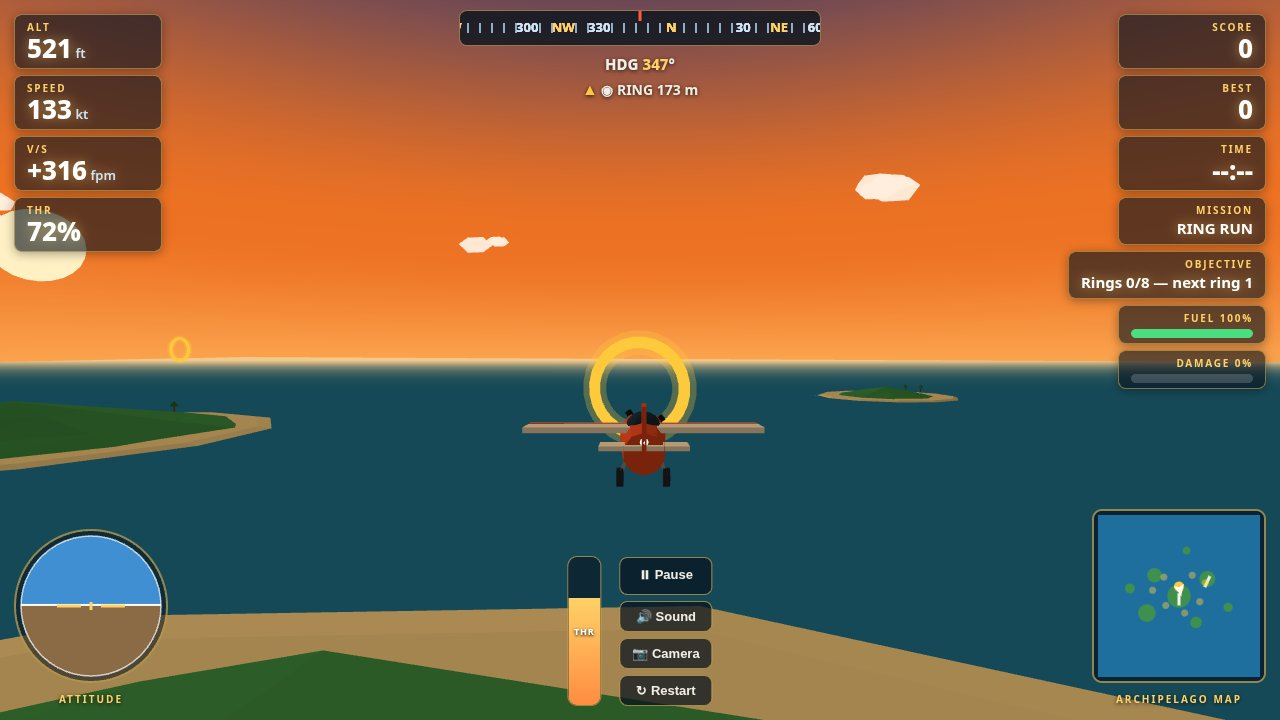
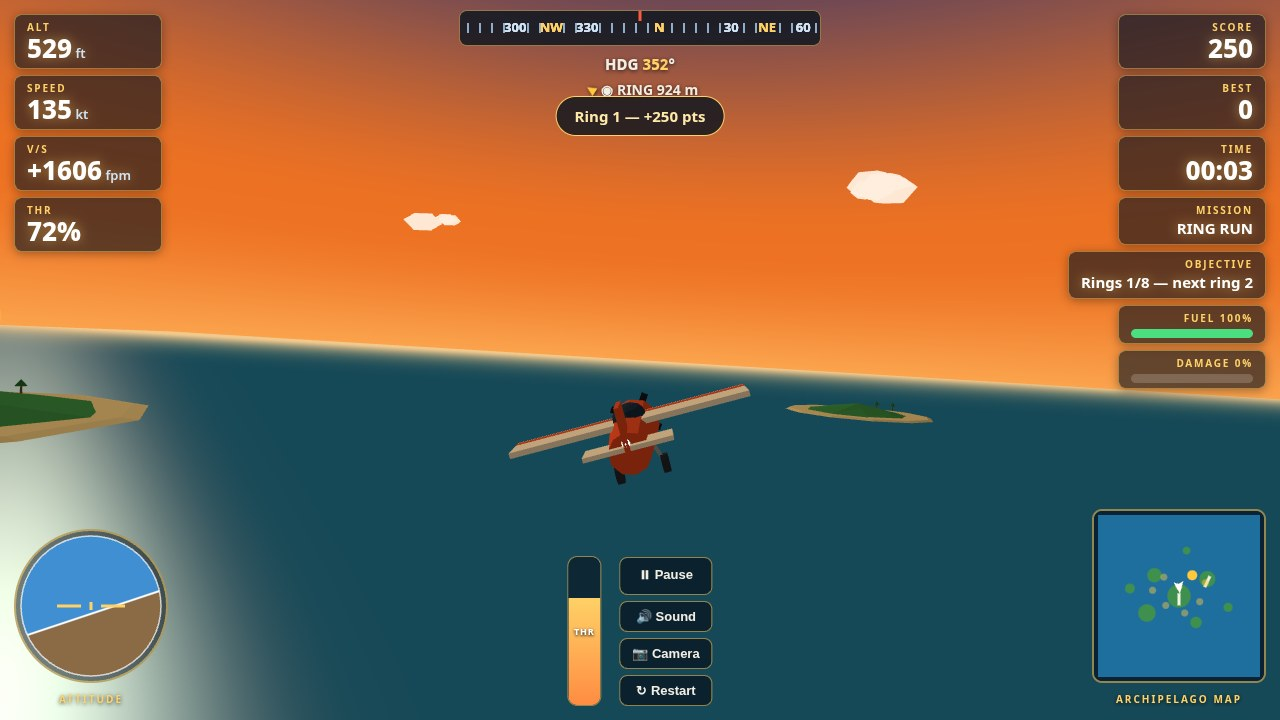
Fix screenshots: live timer + real scores, big cover ring, Island Hop shot, sea glitter, autopilot turn fix
- HUD timer now shows elapsed sortie time on untimed missions (was dead --:--)
- All shots stage mid-sortie states: cover 250 pts with ring 2 ~110 m ahead,
  Island Hop 750 pts on final to Pulau Karang, rings shot catches the live
  +250 pass with toast, landing 250 pts
- shots.json: shot 2 is now the Island Hop approach (was a duplicate Ring Run)
- Sea is MeshPhongMaterial: low sun throws a specular glitter path on the water
- Fixed shot autopilot roll sign (it banked away from every ring after a pass)
  and made ring sorties hold the next ring's height through the centre
- Driver now waits for the chase camera to settle (camSettled hook) before
  capturing, so framing is the settled chase view, not mid-lerp

diff --git a/game/src/main.js b/game/src/main.js
@@ -93,6 +93,11 @@ function endSortie(win, title, lines) {
 // --- Camera -----------------------------------------------------------------
 const camPos = new THREE.Vector3(0, 200, 900);
 const camLook = new THREE.Vector3(0, 100, 0);
+// Where the chase camera is heading (test hook: the screenshot driver waits
+// for the camera to settle there before capturing, so shots are framed the
+// way a player sees them instead of mid-lerp from the spawn point).
+const camGoal = new THREE.Vector3();
+let camGoalSet = false;
 function updateCamera(dt) {
   const fwd = new THREE.Vector3(-Math.sin(flight.heading), 0, -Math.cos(flight.heading));
   const up = new THREE.Vector3(0, 1, 0);
@@ -110,6 +115,8 @@ function updateCamera(dt) {
     desired = planePos.clone().addScaledVector(fwd, -21).add(new THREE.Vector3(0, 6, 0));
     look = planePos.clone().addScaledVector(fwd, 60).add(new THREE.Vector3(0, 4, 0));
   }
+  camGoal.copy(desired);
+  camGoalSet = true;
   const k = 1 - Math.exp(-dt * (mode === 'title' ? 1.2 : 5));
   camPos.lerp(desired, k);
   camLook.lerp(look, 1 - Math.exp(-dt * 7));
@@ -121,9 +128,11 @@ function updateCamera(dt) {
 }
 
 // --- Shot modes: deterministic staged scenes, no input needed ---------------
+// Every shot stages a MID-SORTIE moment, not a cold start: the HUD reads a
+// live timer and a real score, the way a player actually sees the game.
 function stageShot() {
   if (!SHOT) return;
-  const mission = getMission('rings');
+  const mission = SHOT === 'hop' ? getMission('hop') : getMission('rings');
   clearRings(scene, missionState);
   missionState = createMissionState(mission, SEED);
   buildRings(scene, missionState);
@@ -138,17 +147,40 @@ function stageShot() {
   mode = 'flying';
   showOverlay(null);
   if (SHOT === 'cruise') {
-    // Approaching from the south-west, close to ring 1: the ring reads big,
-    // Pulau Karang's runway is ahead-right, home island below.
-    flight.x = 200; flight.y = 175; flight.z = 0;
-    flight.heading = degToRad(-15); flight.speedKt = 125; flight.throttle = 68; flight.onGround = false;
+    // Cover: ring 1 already banked (+250 pts), ring 2 big ahead at ~210 m —
+    // the ring reads at a glance, Pulau Karang's island sits ahead-right.
+    missionState.ringIndex = 1;
+    missionState.score = 250;
+    missionState.combo = 1;
+    missionState.rings[0].visible = false;
+    const ring = missionState.rings[1];
+    flight.x = 550; flight.y = 185; flight.z = -950;
+    flight.speedKt = 125; flight.throttle = 68; flight.onGround = false;
+    flight.heading = Math.atan2(-(ring.position.x - flight.x), -(ring.position.z - flight.z));
+  } else if (SHOT === 'hop') {
+    // Island Hop, second leg: home strip already landed (+750 pts), now on
+    // final approach to Pulau Karang's strip from the south-east, low and
+    // descending — a different mission, a different angle, a different sky.
+    missionState.landingsDone = ['home'];
+    missionState.score = 750;
+    flight.x = 1754; flight.y = 110; flight.z = 244;
+    flight.heading = degToRad(25); flight.speedKt = 105; flight.throttle = 42; flight.onGround = false;
+    flight.pitch = degToRad(-3);
   } else if (SHOT === 'rings') {
+    // Fly-through: close behind ring 1 (~175 m) so the driver catches the
+    // pass itself — score ticks to 250 and the toast fires in the shot.
     const ring = missionState.rings[0];
-    flight.x = ring.position.x + 60; flight.y = ring.position.y + 6; flight.z = ring.position.z + 260;
-    flight.heading = 0; flight.speedKt = 130; flight.throttle = 72; flight.onGround = false;
+    flight.x = ring.position.x + 30; flight.y = ring.position.y + 6; flight.z = ring.position.z + 175;
+    flight.speedKt = 130; flight.throttle = 72; flight.onGround = false;
     // Aim straight at the ring so the shot catches the fly-through.
     flight.heading = Math.atan2(-(ring.position.x - flight.x), -(ring.position.z - flight.z));
   } else if (SHOT === 'landing') {
+    // Home-strip final: one ring already banked (+250 pts), gear down in
+    // spirit, descending on the lit runway.
+    missionState.ringIndex = 1;
+    missionState.score = 250;
+    missionState.combo = 1;
+    missionState.rings[0].visible = false;
     flight.x = 60; flight.y = 85; flight.z = 1250;
     flight.heading = 0; flight.speedKt = 105; flight.throttle = 42; flight.onGround = false;
     flight.pitch = degToRad(-4);
@@ -161,9 +193,22 @@ function shotAutopilot(dt) {
   const target = nextTarget(missionState);
   const desiredHeading = Math.atan2(-(target.x - flight.x), -(target.z - flight.z));
   const headingErr = wrapAngle(desiredHeading - flight.heading);
-  const desiredRoll = clamp(headingErr * 1.4, -0.5, 0.5);
+  // Roll sign: a LEFT bank (roll < 0) turns the nose LEFT, which in this
+  // heading convention means heading INCREASES (turnRate = -sin(roll) * k).
+  // So when the target sits to the left (headingErr < 0, heading must
+  // decrease), the bank must be RIGHT (roll > 0) — the opposite sign from
+  // headingErr. (The first version had this backwards: the plane banked
+  // hard away from every ring after passing one.)
+  const desiredRoll = clamp(-headingErr * 1.4, -0.5, 0.5);
   const rollErr = desiredRoll - flight.roll;
-  const altTarget = SHOT === 'landing' ? Math.max(20, 85 - (1250 - flight.z) * 0.05) : (SHOT === 'rings' ? 156 : 170);
+  // Hold a steady glide path on approaches: the hop final descends on a
+  // fixed slope toward the strip instead of levelling off at cruise height.
+  // On ring sorties, hold the next ring's height so the plane flies through
+  // the ring's centre instead of grazing its lower edge.
+  const hDist = Math.hypot(target.x - flight.x, target.z - flight.z);
+  const altTarget = SHOT === 'landing' ? Math.max(20, 85 - (1250 - flight.z) * 0.05)
+    : SHOT === 'hop' ? clamp(hDist * 0.16, 15, 110)
+    : (SHOT === 'rings' || SHOT === 'cruise' ? target.y + 6 : 170);
   const altErr = clamp((altTarget - flight.y) / 60, -0.4, 0.4);
   return {
     pitch: clamp(altErr - flight.pitch * 2, -0.6, 0.6),
@@ -259,7 +304,7 @@ function frame(now) {
     let stick;
     if (SHOT) {
       stick = shotAutopilot(dt);
-      flight.throttle = SHOT === 'landing' ? 42 : SHOT === 'rings' ? 72 : 68;
+      flight.throttle = SHOT === 'landing' || SHOT === 'hop' ? 42 : SHOT === 'rings' ? 72 : 68;
     } else {
       stick = {
         pitch: input.pitch,
@@ -341,6 +386,7 @@ function frame(now) {
       score: missionState.score,
       bestScore,
       timeLeft: missionState.timeLeft,
+      elapsedSec: timeSec,
       objectiveText: objectiveText(missionState),
       rings: missionState.rings,
       nextRingIndex: missionState.ringIndex,
@@ -370,6 +416,11 @@ window.__game = {
   get flight() { return flight; },
   get mission() { return missionState; },
   get shot() { return SHOT; },
+  // True once the chase camera has converged on its staged framing. The
+  // goal moves with the plane, so the camera trails it by a steady ~11 m
+  // (22% of the gap closed per 0.05 s frame against ~3 m of forward motion
+  // per frame) — 15 m is the converged band, not 0.
+  get camSettled() { return camGoalSet && camera.position.distanceTo(camGoal) < 15; },
   startMission,
   version: 'langit-nusantara-1.0',
 };

diff --git a/game/src/hud.js b/game/src/hud.js
@@ -152,7 +152,7 @@ function drawMinimap(ctx, state, rings, nextRingIndex, homeRunway, hopRunway) {
 }
 
 export function updateHud(hud, view) {
-  const { readouts, state, mission, score, bestScore, timeLeft, objectiveText, rings, nextRingIndex } = view;
+  const { readouts, state, mission, score, bestScore, timeLeft, elapsedSec, objectiveText, rings, nextRingIndex } = view;
   setText('hud-alt', readouts.altitudeFt.toLocaleString('en-US'));
   setText('hud-speed', readouts.speedKt);
   setText('hud-hdg', String(readouts.headingDeg).padStart(3, '0'));
@@ -163,7 +163,10 @@ export function updateHud(hud, view) {
   setText('hud-best', bestScore.toLocaleString('en-US'));
   setText('hud-mission', mission ? mission.name.toUpperCase() : 'FREE FLIGHT');
   setText('hud-objective', objectiveText);
-  setText('hud-timer', mission && mission.timeLimitSec ? formatTime(timeLeft) : '--:--');
+  // TIME always reads live: the countdown on a timed sortie, the elapsed
+  // sortie time everywhere else (a pilot wants to know how long she has
+  // been airborne, and a screenshot should never show a dead "--:--").
+  setText('hud-timer', mission && mission.timeLimitSec ? formatTime(timeLeft) : formatTime(elapsedSec || 0));
   setText('hud-damage-num', `${Math.round(state.damage)}%`);
   setBar('fuel-bar', state.fuel, 25);
   setBar('damage-bar', state.damage, 60);

diff --git a/game/src/terrain.js b/game/src/terrain.js
@@ -179,10 +179,12 @@ export function buildWorld(scene, seed = 1) {
   sunDisc.lookAt(0, 300, 0);
   scene.add(sunDisc);
 
-  // Sea: big flat plane with a warm blue.
+  // Sea: big flat plane with a warm blue. Phong, not Lambert, so the low
+  // sun throws a real specular glitter path across the water instead of a
+  // dead flat fill — the cheapest way to make the sea read as sea.
   const sea = new THREE.Mesh(
     new THREE.PlaneGeometry(16000, 16000),
-    new THREE.MeshLambertMaterial({ color: 0x2478a8 }),
+    new THREE.MeshPhongMaterial({ color: 0x2478a8, shininess: 90, specular: 0x9fc4dd }),
   );
   sea.rotation.x = -Math.PI / 2;
   sea.position.y = 0;

diff --git a/README.md b/README.md
@@ -27,8 +27,8 @@ and a clock turning every sortie into decisions.
   timer and a minimap with a direction arrow to the next ring or runway.
 - **Sound, all synthesised** (WebAudio, no audio files): engine hum tied to throttle,
   wind, ring chimes, touchdown thud and crash.
-- **Deterministic screenshot modes**: `?shot=start|cruise|rings|landing&seed=1`
-  stages a fixed scene with no input needed.
+- **Deterministic screenshot modes**: `?shot=start|cruise|hop|rings|landing&seed=1`
+  stages a fixed mid-sortie scene with no input needed (live timer, real score).
 
 ## Controls
 
